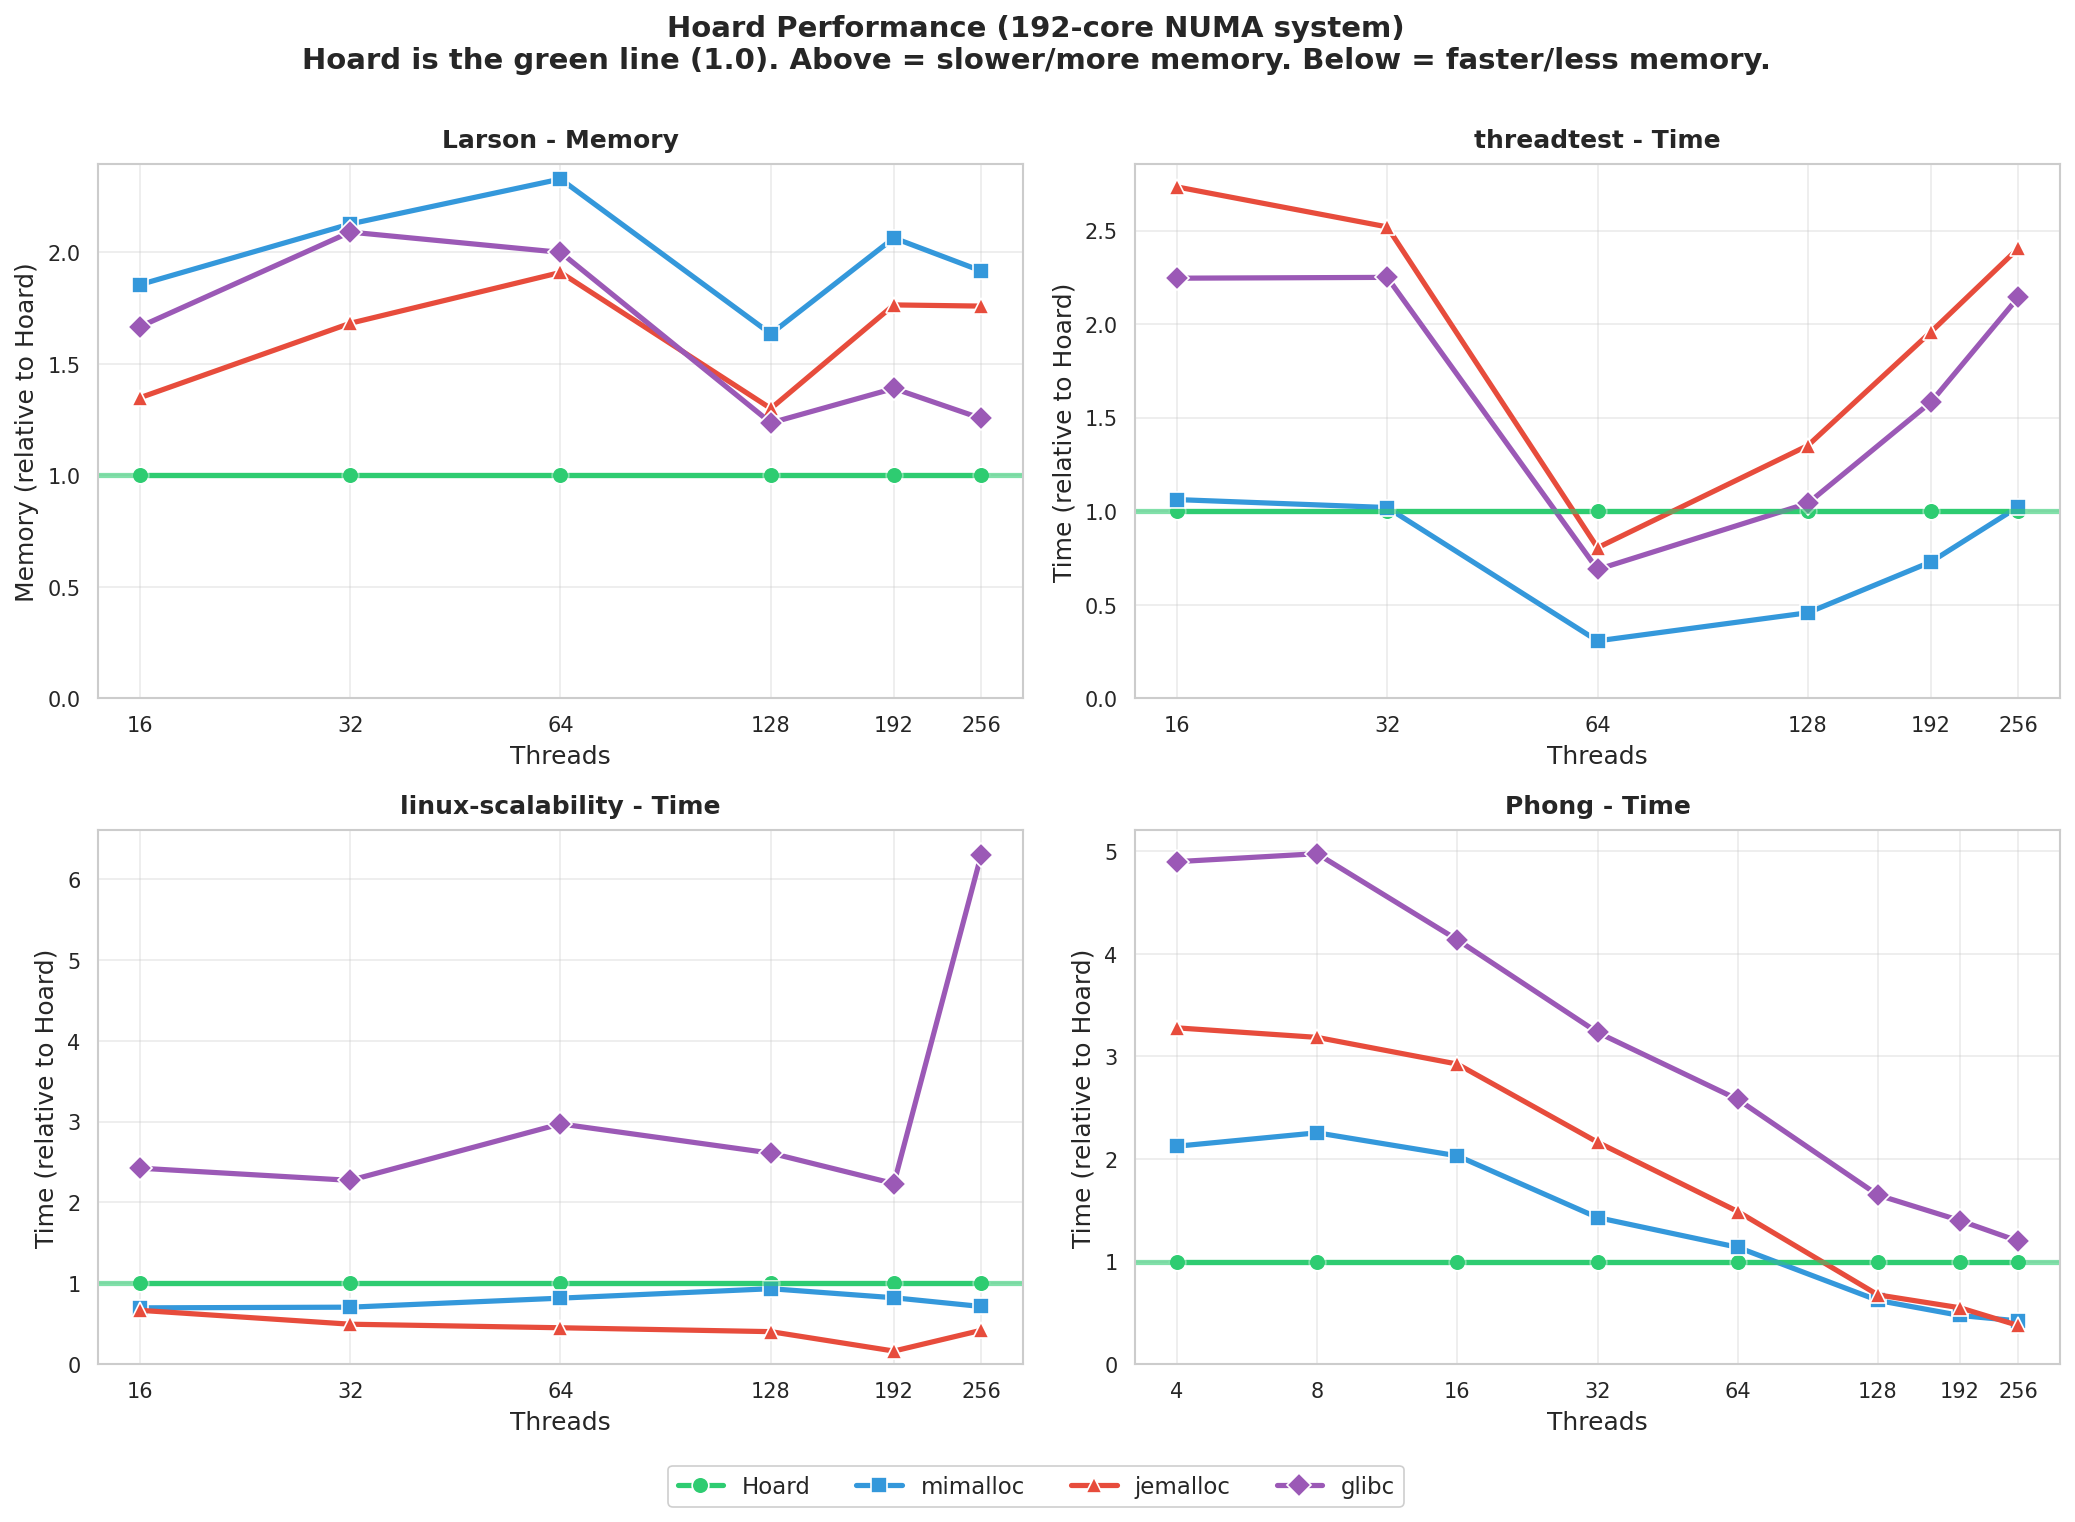
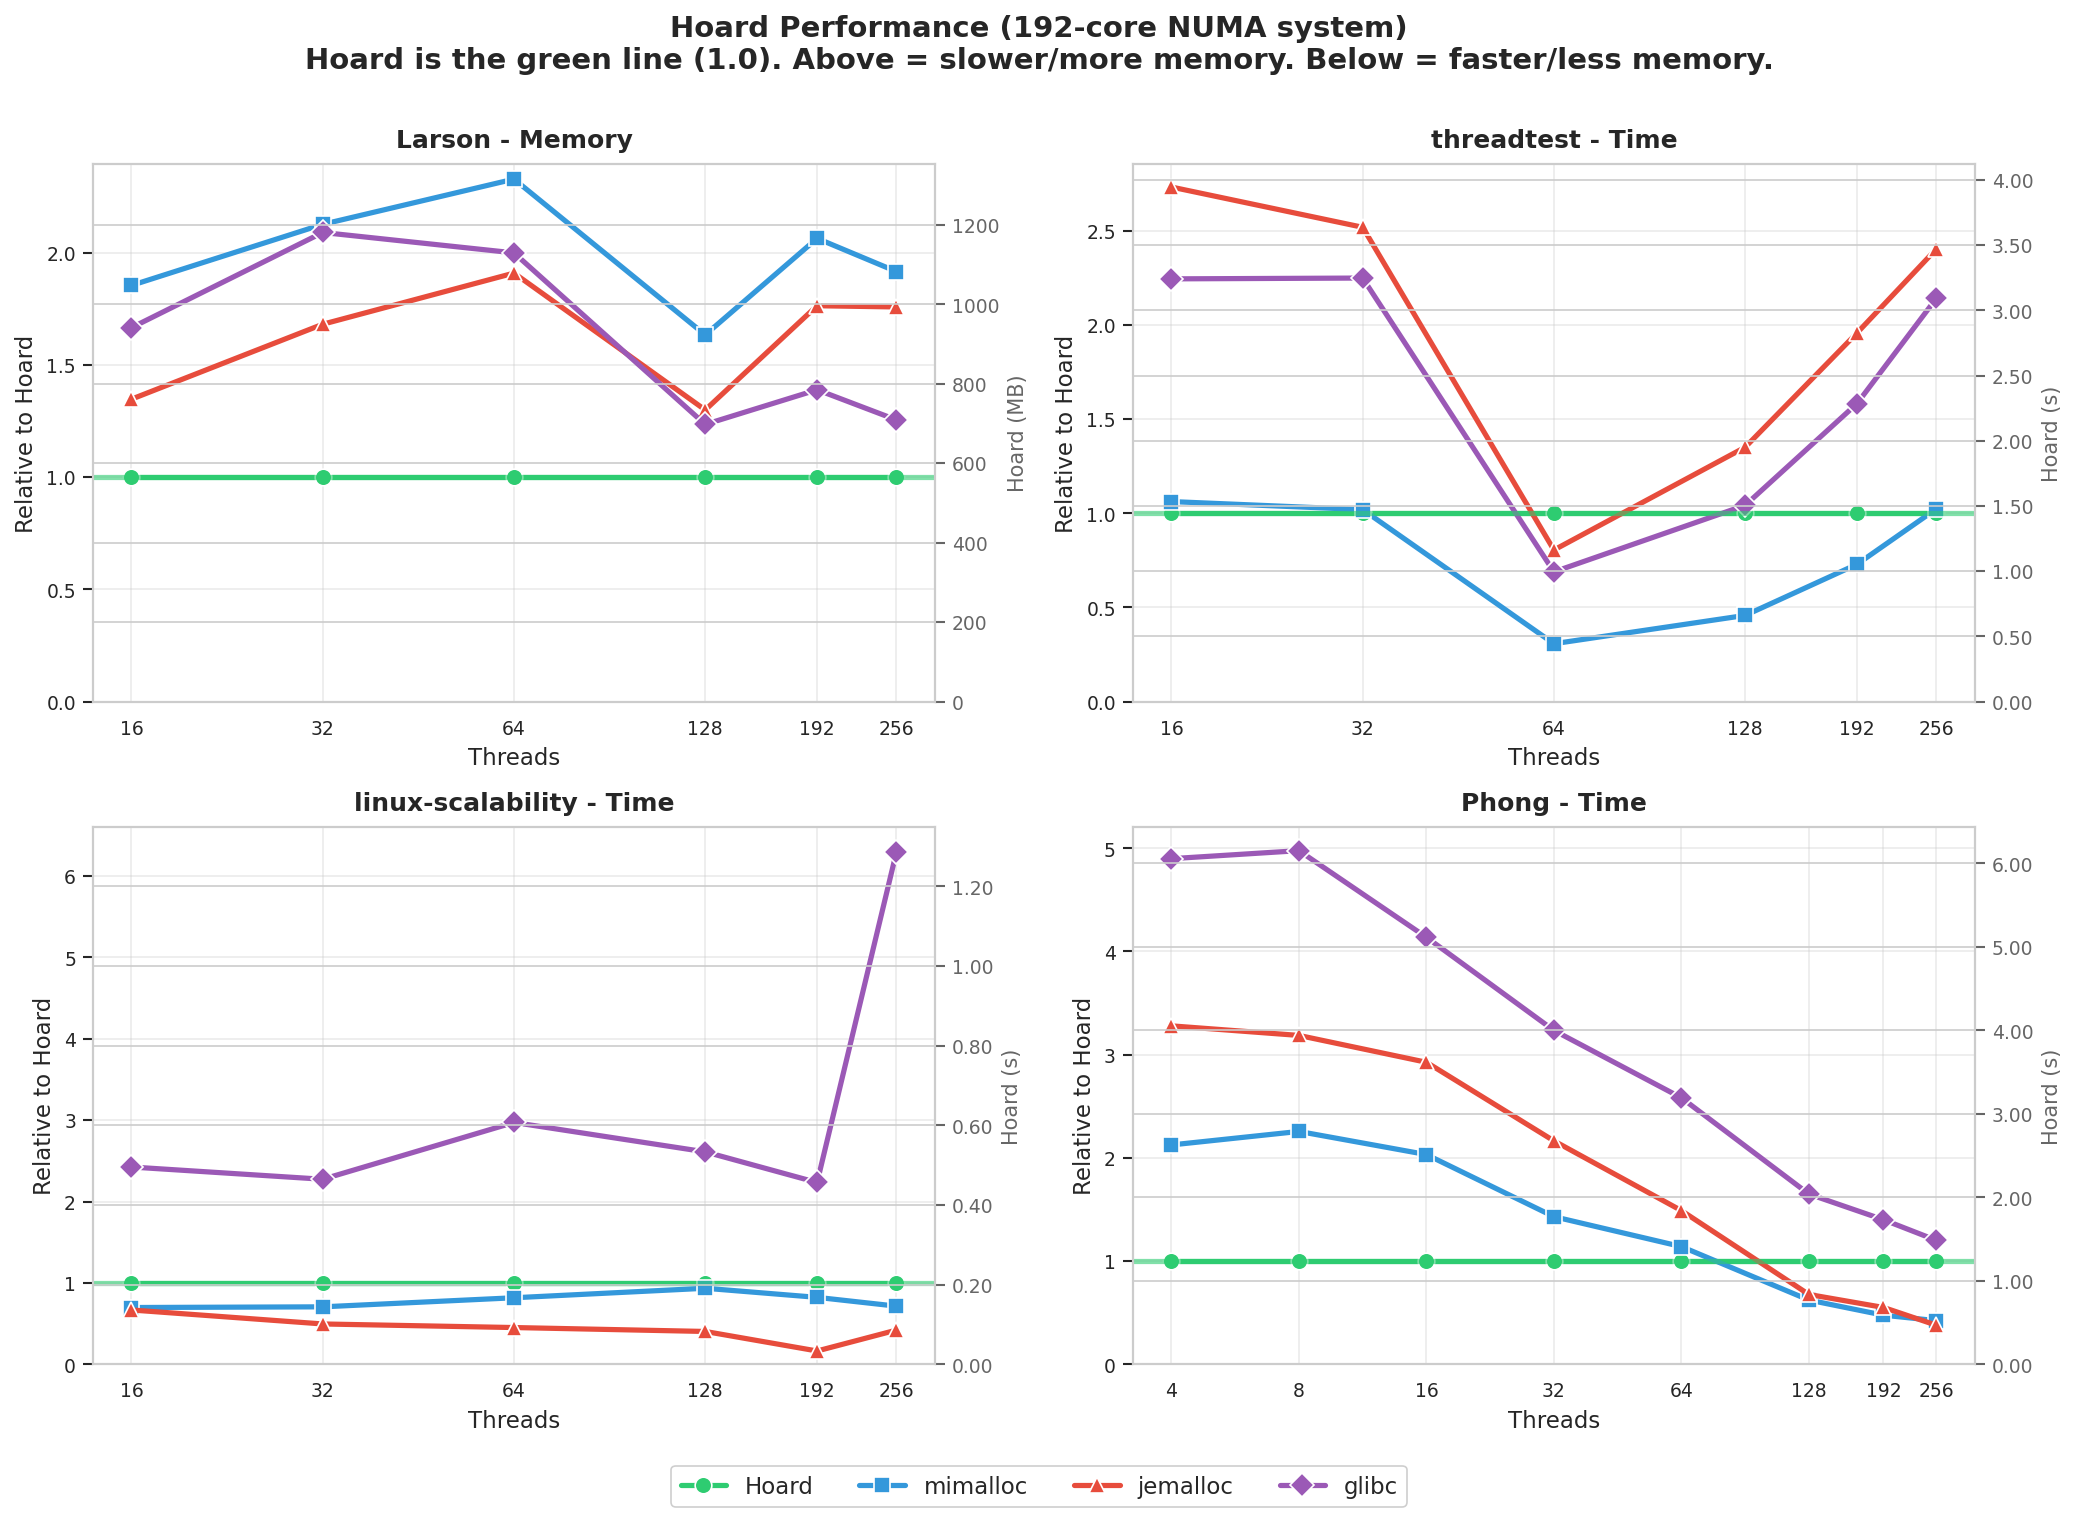
Add secondary y-axis showing actual values (seconds/MB)
- Left y-axis: normalized to Hoard (1.0)
- Right y-axis: actual values based on Hoard's baseline
- Makes it easy to see both relative performance and absolute values

diff --git a/doc/generate_benchmarks.py b/doc/generate_benchmarks.py
@@ -4,6 +4,8 @@
 All results are normalized to Hoard (Hoard = 1.0, the green horizontal line).
 - Above the line = slower/more memory than Hoard
 - Below the line = faster/less memory than Hoard
+
+Left y-axis shows normalized values, right y-axis shows actual values.
 """
 
 import matplotlib.pyplot as plt
@@ -56,8 +58,6 @@ def normalize_to_hoard(data):
 
 # Larson: server workload simulation
 larson_threads = [16, 32, 64, 128, 192, 256]
-# Larson runs for fixed time, so "time" is roughly equal - use throughput inverted
-# Actually we'll show memory as the key metric since throughput is similar
 larson_time = {
     'Hoard': [10.08, 10.16, 10.34, 10.80, 11.09, 10.63],
     'mimalloc': [10.08, 10.18, 10.39, 10.96, 11.42, 10.31],
@@ -120,9 +120,14 @@ phong_mem = {
 # PLOTTING FUNCTIONS
 # =============================================================================
 
-def plot_normalized_lines(ax, threads, data, ylabel, show_legend=True):
-    """Plot normalized line graph. Hoard = 1.0 (green line)."""
+def plot_normalized_lines(ax, threads, data, ylabel_left, unit, show_legend=True):
+    """Plot normalized line graph with dual y-axes.
+
+    Left axis: normalized to Hoard (1.0)
+    Right axis: actual values in specified unit
+    """
     norm_data = normalize_to_hoard(data)
+    hoard_vals = data['Hoard']
 
     for name in ALLOCATORS:
         ax.plot(threads, norm_data[name],
@@ -138,7 +143,7 @@ def plot_normalized_lines(ax, threads, data, ylabel, show_legend=True):
     ax.axhline(y=1.0, color=COLORS['Hoard'], linestyle='-', alpha=0.6, linewidth=2.5)
 
     ax.set_xlabel('Threads', fontsize=12, fontweight='medium')
-    ax.set_ylabel(ylabel, fontsize=12, fontweight='medium')
+    ax.set_ylabel(ylabel_left, fontsize=12, fontweight='medium')
 
     if show_legend:
         ax.legend(loc='best', framealpha=0.95, edgecolor='#cccccc', fontsize=10)
@@ -150,14 +155,36 @@ def plot_normalized_lines(ax, threads, data, ylabel, show_legend=True):
     ax.grid(True, alpha=0.4, linestyle='-')
     ax.set_ylim(bottom=0)
 
-def plot_benchmark(threads, time_data, mem_data, bench_name, filename):
+    # Create secondary y-axis with actual values
+    ax2 = ax.twinx()
+
+    # Get the current y-axis limits and convert to actual values
+    y_min, y_max = ax.get_ylim()
+
+    # Calculate what the actual values would be at those normalized points
+    # Use the average Hoard value as reference for the right axis scale
+    avg_hoard = np.mean(hoard_vals)
+
+    ax2.set_ylim(y_min * avg_hoard, y_max * avg_hoard)
+    ax2.set_ylabel(f'Hoard baseline ({unit})', fontsize=11, fontweight='medium', color='#666666')
+    ax2.tick_params(axis='y', labelsize=10, colors='#666666')
+
+    # Format the right axis labels appropriately
+    if unit == 's':
+        ax2.yaxis.set_major_formatter(plt.FuncFormatter(lambda x, p: f'{x:.2f}'))
+    else:  # MB
+        ax2.yaxis.set_major_formatter(plt.FuncFormatter(lambda x, p: f'{x:.0f}'))
+
+    return ax2
+
+def plot_benchmark(threads, time_data, mem_data, bench_name, filename, time_unit='s'):
     """Create a two-panel figure with time and memory."""
     fig, (ax1, ax2) = plt.subplots(1, 2, figsize=(14, 5))
 
-    plot_normalized_lines(ax1, threads, time_data, 'Time (relative to Hoard)', show_legend=False)
+    plot_normalized_lines(ax1, threads, time_data, 'Time (relative to Hoard)', time_unit, show_legend=False)
     ax1.set_title('Execution Time', fontsize=13, fontweight='bold', pad=10)
 
-    plot_normalized_lines(ax2, threads, mem_data, 'Memory (relative to Hoard)', show_legend=False)
+    plot_normalized_lines(ax2, threads, mem_data, 'Memory (relative to Hoard)', 'MB', show_legend=False)
     ax2.set_title('Memory Usage', fontsize=13, fontweight='bold', pad=10)
 
     # Shared legend at bottom
@@ -189,17 +216,48 @@ plot_benchmark(phong_threads, phong_time, phong_mem, 'Phong (realloc-heavy)', 'b
 # Summary plot - 2x2 grid showing key metrics
 fig, axes = plt.subplots(2, 2, figsize=(14, 10))
 
-plot_normalized_lines(axes[0, 0], larson_threads, larson_mem, 'Memory (relative to Hoard)', show_legend=False)
-axes[0, 0].set_title('Larson - Memory', fontsize=12, fontweight='bold', pad=8)
+def plot_summary_panel(ax, threads, data, title, unit):
+    """Plot a single panel for the summary graph."""
+    norm_data = normalize_to_hoard(data)
+    hoard_vals = data['Hoard']
 
-plot_normalized_lines(axes[0, 1], threadtest_threads, threadtest_time, 'Time (relative to Hoard)', show_legend=False)
-axes[0, 1].set_title('threadtest - Time', fontsize=12, fontweight='bold', pad=8)
+    for name in ALLOCATORS:
+        ax.plot(threads, norm_data[name],
+                marker=MARKERS[name],
+                color=COLORS[name],
+                linewidth=2.5,
+                markersize=8,
+                label=name,
+                markeredgecolor='white',
+                markeredgewidth=0.8)
 
-plot_normalized_lines(axes[1, 0], linuxscal_threads, linuxscal_time, 'Time (relative to Hoard)', show_legend=False)
-axes[1, 0].set_title('linux-scalability - Time', fontsize=12, fontweight='bold', pad=8)
+    ax.axhline(y=1.0, color=COLORS['Hoard'], linestyle='-', alpha=0.6, linewidth=2.5)
+    ax.set_xlabel('Threads', fontsize=11, fontweight='medium')
+    ax.set_ylabel('Relative to Hoard', fontsize=11, fontweight='medium')
+    ax.set_title(title, fontsize=12, fontweight='bold', pad=8)
+    ax.set_xscale('log', base=2)
+    ax.set_xticks(threads)
+    ax.set_xticklabels([str(t) for t in threads], fontsize=9)
+    ax.tick_params(axis='y', labelsize=9)
+    ax.grid(True, alpha=0.4, linestyle='-')
+    ax.set_ylim(bottom=0)
 
-plot_normalized_lines(axes[1, 1], phong_threads, phong_time, 'Time (relative to Hoard)', show_legend=False)
-axes[1, 1].set_title('Phong - Time', fontsize=12, fontweight='bold', pad=8)
+    # Secondary axis
+    ax2 = ax.twinx()
+    y_min, y_max = ax.get_ylim()
+    avg_hoard = np.mean(hoard_vals)
+    ax2.set_ylim(y_min * avg_hoard, y_max * avg_hoard)
+    ax2.set_ylabel(f'Hoard ({unit})', fontsize=10, color='#666666')
+    ax2.tick_params(axis='y', labelsize=9, colors='#666666')
+    if unit == 's':
+        ax2.yaxis.set_major_formatter(plt.FuncFormatter(lambda x, p: f'{x:.2f}'))
+    else:
+        ax2.yaxis.set_major_formatter(plt.FuncFormatter(lambda x, p: f'{x:.0f}'))
+
+plot_summary_panel(axes[0, 0], larson_threads, larson_mem, 'Larson - Memory', 'MB')
+plot_summary_panel(axes[0, 1], threadtest_threads, threadtest_time, 'threadtest - Time', 's')
+plot_summary_panel(axes[1, 0], linuxscal_threads, linuxscal_time, 'linux-scalability - Time', 's')
+plot_summary_panel(axes[1, 1], phong_threads, phong_time, 'Phong - Time', 's')
 
 # Shared legend
 handles = [plt.Line2D([0], [0], marker=MARKERS[name], color=COLORS[name],
